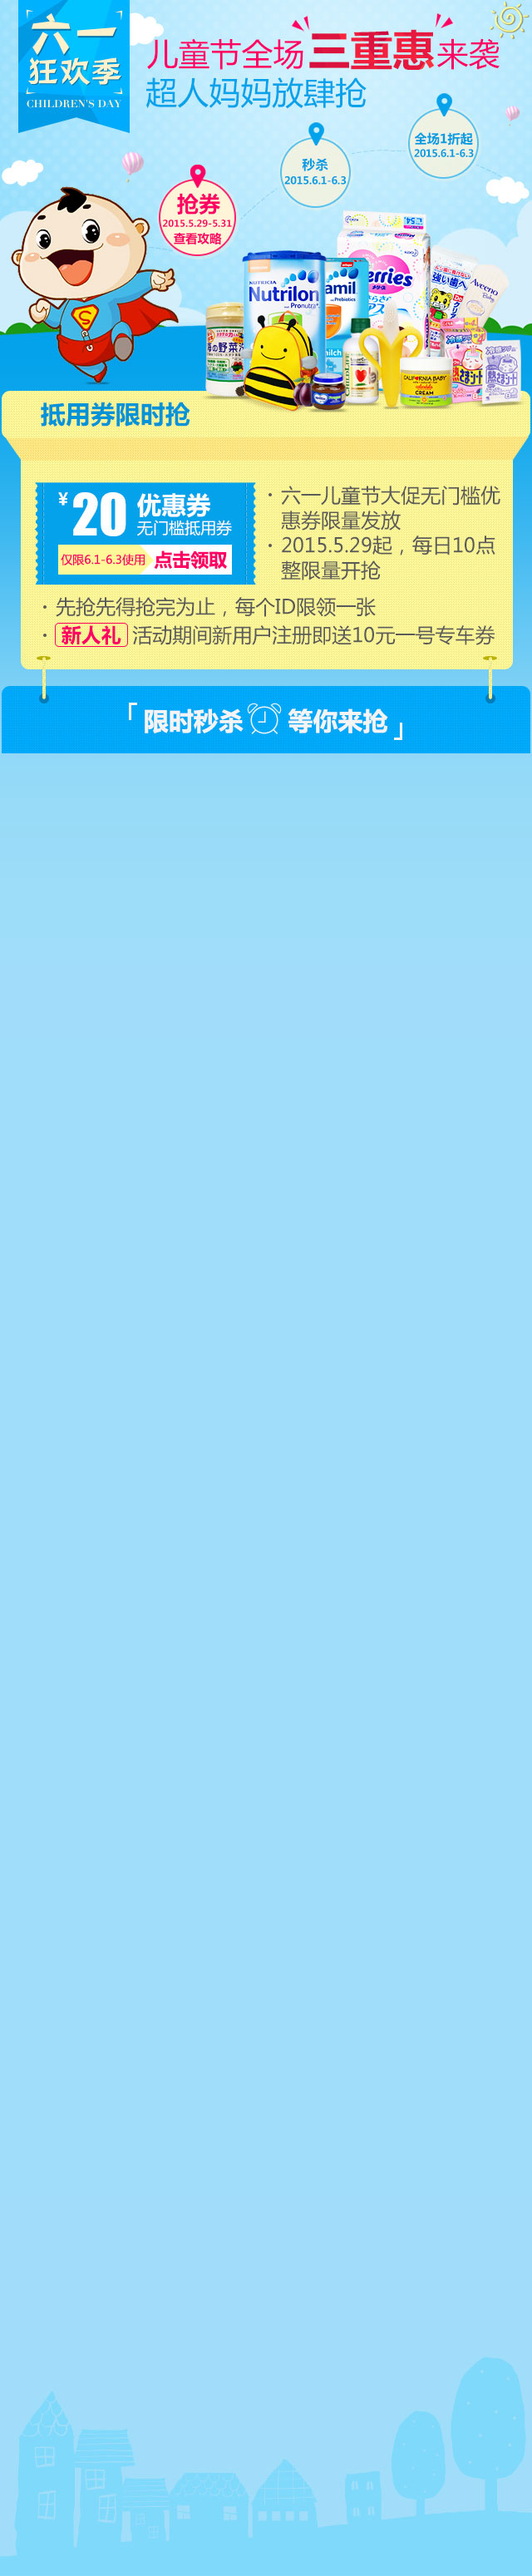
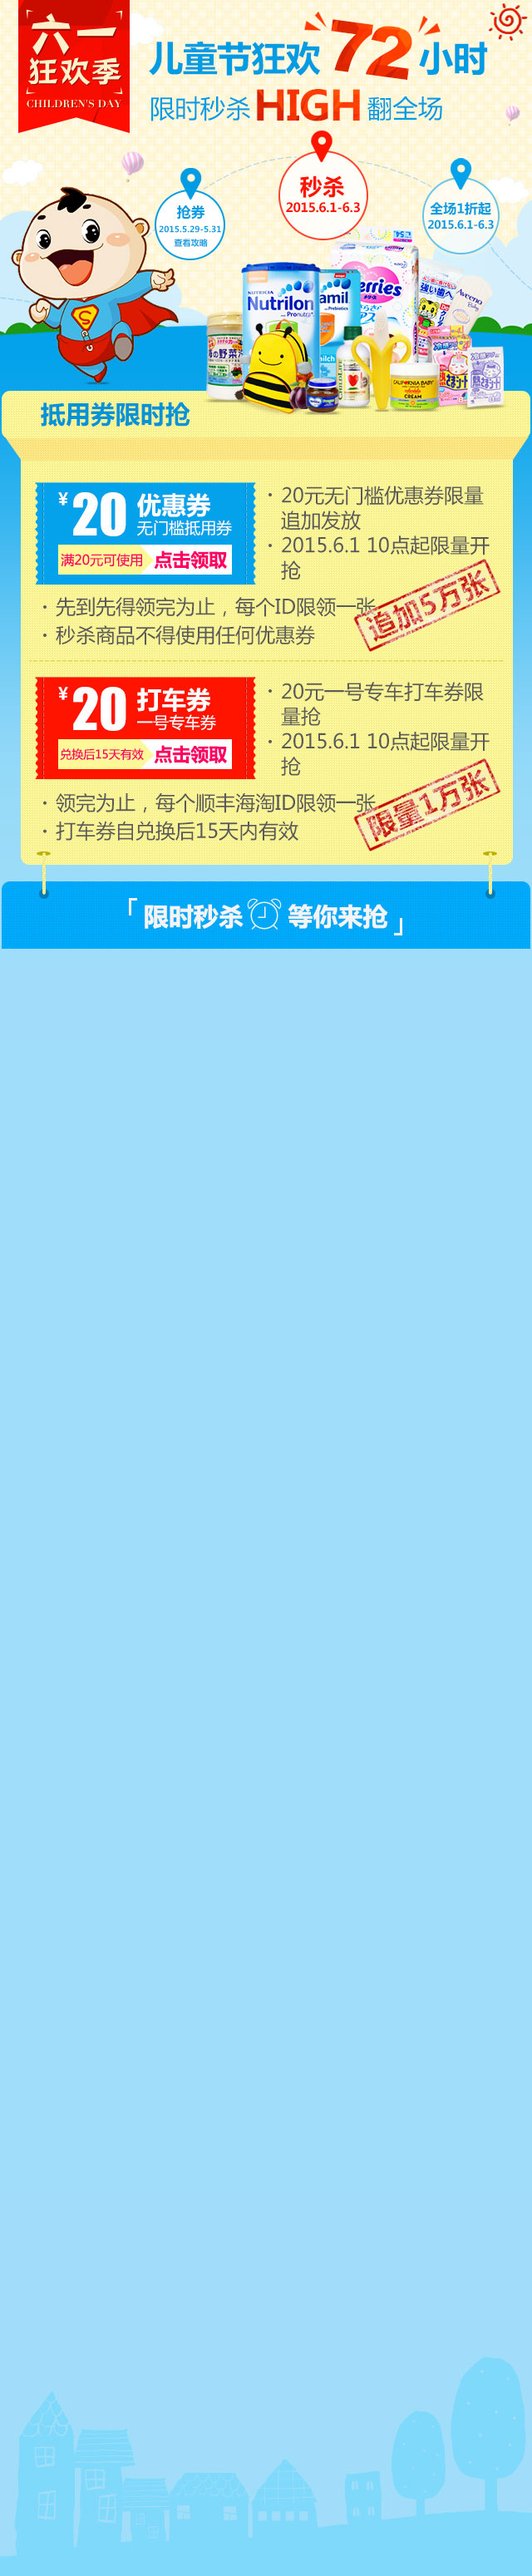
61

Changed region(s): [[0.0, 0.0, 1.0, 0.3719]]

diff --git a/app/static/html/61.html b/app/static/html/61.html
@@ -1,1 +1,1 @@
-<!DOCTYPE html PUBLIC "-//W3C//DTD XHTML 1.0 Transitional//EN" "http://www.w3.org/TR/xhtml1/DTD/xhtml1-transitional.dtd"><html xmlns="http://www.w3.org/1999/xhtml"><head><meta http-equiv="Content-Type" content="text/html; charset=utf-8" /><meta name="viewport" content="width=device-width, initial-scale=1, maximum-scale=1, user-scalable=no"><title>确定订单</title><link href="../css/common.css" rel="stylesheet" type="text/css" /><link href="../css/61.css" rel="stylesheet" type="text/css" /></head><body><div class="pb"><div class="children-day"><div class="pm"><a class="a1" href="">抢券</a><a class="a2" href="">领取优惠券</a><div class="icon-soldout">已抢光</div><div class="m-dialog"><div class="mb"><a class="close" href="">X</a><h2>预热期：</h2><ul><li>1.抢！20元六一大促无门槛优惠券 </li><li>12.看！9.9元起的秒杀价，锁定目标，等待开抢</li><li>13.新人礼！新用户注册即送10元一号专车打车券</li></ul><h2>大促期：</h2><ul><li>11.20元无门槛优惠券全场放肆用（秒杀商品及小于等于20元商品无法使用此优惠券）</li><li>12.全场1折起 每日准点两场秒杀9.9元起  3.20元一号专车打车券限量抢</li></ul><h2>温馨提示</h2><ul><li>1活动预热时间：2015年5月29日10:00- 2015年5月31日23:59</li><li>1六一儿童节大促时间：2015年6月1日10:00- 2015年6月3日23:59</li></ul><h2>优惠券规则：</h2><ul><li>11.活动预热期间每日10点整准时限量发放20元现金抵用券20000张，先抢先得抢完为止，每个ID限领一张；</li><li>12.优惠券使用有效期限：2015.6.1 10:00-2015.6.3 23:59</li><li>13.此券六一狂欢季无门槛全场通用，秒杀商品及小于等于20元商品无法使用此优惠券</li> </ul><h2>20元无门槛优惠券</li><h2>10元一号专车打车券</h2><ul><li>11.在5月29日00:00-5月31日23:59期间内，所有新注册用户将得到10元一号专车打车券一张；</li><li>12.10元打车券将于6月1日10:00 统一短信发放告知，用户自行前往1号专车平台兑换优惠码；</li><li>13.优惠码兑换有限期为：6月1日10:00-6月30日23:59（逾期优惠券兑换码将失效）；</li><li>14.打车券使用期限为自兑换后15天内有效。<li>15. 10元一号专车打车券限量发放20000张，先注册先得，只限新注册用户，每个顺丰海淘账户ID限领一张；</li></ul><h2>秒杀商品规则：</h2><ul><li>六一大促活动期间，每个ID账户同一个秒杀商品只限购买一次，秒杀商品不得使用任何优惠券</li></ul></div></div><div class="tab2"><ul class="tab2-h"><li class="active"><a href="">6月1日</a></li><li><a href="">6月2日</a></li><li><a href="">6月3日</a></li></ul><div class="tab2-b active"><li><a href=""><img src="../img/61/1.jpg"></a></li><li><a href=""><img src="../img/61/3.jpg"></a><div class="mask"></div><span>即将开始<br />10点开枪</span></li><li><a href=""><img src="../img/61/4.jpg"></a><div class="mask"></div><span>已抢光</span></li><li><a href=""><img src="../img/61/4.jpg"></a></li><li><a href=""><img src="../img/61/5.jpg"></a></li><li><a href=""><img src="../img/61/6.jpg"></a></li><li><a href=""><img src="../img/61/7.jpg"></a></li><li><a href=""><img src="../img/61/8.jpg"></a></li></div><div class="tab2-b"><li><a href=""><img src="../img/61/5.jpg"></a></li><li><a href=""><img src="../img/61/6.jpg"></a></li><li><a href=""><img src="../img/61/7.jpg"></a></li><li><a href=""><img src="../img/61/8.jpg"></a></li><li><a href=""><img src="../img/61/1.jpg"></a></li><li><a href=""><img src="../img/61/2.jpg"></a></li><li><a href=""><img src="../img/61/3.jpg"></a></li><li><a href=""><img src="../img/61/4.jpg"></a></li></div><div class="tab2-b"><li><a href=""><img src="../img/61/4.jpg"></a></li><li><a href=""><img src="../img/61/5.jpg"></a></li><li><a href=""><img src="../img/61/6.jpg"></a></li><li><a href=""><img src="../img/61/1.jpg"></a></li><li><a href=""><img src="../img/61/2.jpg"></a></li><li><a href=""><img src="../img/61/3.jpg"></a></li><li><a href=""><img src="../img/61/7.jpg"></a></li><li><a href=""><img src="../img/61/8.jpg"></a></li></div></div></div></div></div><!--尾部--><!--尾部--><script src="../js/zepto.min.js"></script><script src="../js/61.js"></script></body><script type="text/javascript">var cnzz_protocol = (("https:" == document.location.protocol) ? " https://" : " http://");document.write(unescape("%3Cscript src='" + cnzz_protocol + "v1.cnzz.com/z_stat.php%3Fid%3D1253511102%26show%3Dpic1' type='text/javascript'%3E%3C/script%3E"));</script></html>
+<!DOCTYPE html PUBLIC "-//W3C//DTD XHTML 1.0 Transitional//EN" "http://www.w3.org/TR/xhtml1/DTD/xhtml1-transitional.dtd"><html xmlns="http://www.w3.org/1999/xhtml"><head><meta http-equiv="Content-Type" content="text/html; charset=utf-8" /><meta name="viewport" content="width=device-width, initial-scale=1, maximum-scale=1, user-scalable=no"><title>确定订单</title><link href="../css/common.css" rel="stylesheet" type="text/css" /><link href="../css/61.css" rel="stylesheet" type="text/css" /></head><body><div class="pb"><div class="children-day"><div class="pm"><a class="a1" href="">抢券</a><a class="a2" href="">领取优惠券</a><a class="a3" href="">领取打车券</a><div class="icon-soldout">已抢光</div><div class="icon-soldout icon-soldout2">已抢光</div><div class="m-dialog"><div class="mb"><a class="close" href="">X</a><h2>预热期：</h2><ul><li>1.抢！20元六一大促无门槛优惠券 </li><li>12.看！9.9元起的秒杀价，锁定目标，等待开抢</li><li>13.新人礼！新用户注册即送10元一号专车打车券</li></ul><h2>大促期：</h2><ul><li>11.20元无门槛优惠券全场放肆用（秒杀商品及小于等于20元商品无法使用此优惠券）</li><li>12.全场1折起 每日准点两场秒杀9.9元起  3.20元一号专车打车券限量抢</li></ul><h2>温馨提示</h2><ul><li>1活动预热时间：2015年5月29日10:00- 2015年5月31日23:59</li><li>1六一儿童节大促时间：2015年6月1日10:00- 2015年6月3日23:59</li></ul><h2>优惠券规则：</h2><ul><li>11.活动预热期间每日10点整准时限量发放20元现金抵用券20000张，先抢先得抢完为止，每个ID限领一张；</li><li>12.优惠券使用有效期限：2015.6.1 10:00-2015.6.3 23:59</li><li>13.此券六一狂欢季无门槛全场通用，秒杀商品及小于等于20元商品无法使用此优惠券</li> </ul><h2>20元无门槛优惠券</li><h2>10元一号专车打车券</h2><ul><li>11.在5月29日00:00-5月31日23:59期间内，所有新注册用户将得到10元一号专车打车券一张；</li><li>12.10元打车券将于6月1日10:00 统一短信发放告知，用户自行前往1号专车平台兑换优惠码；</li><li>13.优惠码兑换有限期为：6月1日10:00-6月30日23:59（逾期优惠券兑换码将失效）；</li><li>14.打车券使用期限为自兑换后15天内有效。<li>15. 10元一号专车打车券限量发放20000张，先注册先得，只限新注册用户，每个顺丰海淘账户ID限领一张；</li></ul><h2>秒杀商品规则：</h2><ul><li>六一大促活动期间，每个ID账户同一个秒杀商品只限购买一次，秒杀商品不得使用任何优惠券</li></ul></div></div><div class="tab2"><ul class="tab2-h"><li class="active"><a href="">6月1日</a></li><li><a href="">6月2日</a></li><li><a href="">6月3日</a></li></ul><div class="tab2-b active"><li><a href=""><img src="../img/61/1.jpg"></a><div class="tab-icon">限量<br />100份</div><p>秒杀价已结束<br />活动价仍继续</p></li><li><a href=""><img src="../img/61/3.jpg"></a><div class="mask"></div><span>即将开始<br />10点开枪</span></li><li><a href=""><img src="../img/61/4.jpg"></a><div class="mask"></div><span>已抢光</span></li><li><a href=""><img src="../img/61/4.jpg"></a></li><li><a href=""><img src="../img/61/5.jpg"></a></li><li><a href=""><img src="../img/61/6.jpg"></a></li><li><a href=""><img src="../img/61/7.jpg"></a></li><li><a href=""><img src="../img/61/8.jpg"></a></li></div><div class="tab2-b"><li><a href=""><img src="../img/61/5.jpg"></a></li><li><a href=""><img src="../img/61/6.jpg"></a></li><li><a href=""><img src="../img/61/7.jpg"></a></li><li><a href=""><img src="../img/61/8.jpg"></a></li><li><a href=""><img src="../img/61/1.jpg"></a></li><li><a href=""><img src="../img/61/2.jpg"></a></li><li><a href=""><img src="../img/61/3.jpg"></a></li><li><a href=""><img src="../img/61/4.jpg"></a></li></div><div class="tab2-b"><li><a href=""><img src="../img/61/4.jpg"></a></li><li><a href=""><img src="../img/61/5.jpg"></a></li><li><a href=""><img src="../img/61/6.jpg"></a></li><li><a href=""><img src="../img/61/1.jpg"></a></li><li><a href=""><img src="../img/61/2.jpg"></a></li><li><a href=""><img src="../img/61/3.jpg"></a></li><li><a href=""><img src="../img/61/7.jpg"></a></li><li><a href=""><img src="../img/61/8.jpg"></a></li></div></div></div></div></div><!--尾部--><!--尾部--><script src="../js/zepto.min.js"></script><script src="../js/61.js"></script></body><script type="text/javascript">var cnzz_protocol = (("https:" == document.location.protocol) ? " https://" : " http://");document.write(unescape("%3Cscript src='" + cnzz_protocol + "v1.cnzz.com/z_stat.php%3Fid%3D1253511102%26show%3Dpic1' type='text/javascript'%3E%3C/script%3E"));</script></html>

diff --git a/app/static/css/61.css b/app/static/css/61.css
@@ -1,1 +1,1 @@
-body{max-width:320px}.children-day{background:url(../img/61/bg.jpg) no-repeat center top;-webkit-background-size:320px 320px;background-size:320px}.children-day .pm{padding-top:453px;height:1548px;-webkit-box-sizing:border-box;-moz-box-sizing:border-box;box-sizing:border-box;position:relative}.children-day .a1{width:47px;height:47px;position:absolute;left:95px;top:108px;text-indent:-999em}.children-day .a2{width:133px;height:61px;position:absolute;left:15px;top:291px;text-indent:-999em}.m-dialog{position:absolute;top:10%;left:50%;display:none;width:90%}.m-dialog .mb{position:relative;left:-50%;margin-top:-50%;background:#fff;background:rgba(255,255,255,0.85);border:2px solid #ccc;padding:10px 26px;-webkit-border-radius:4px;border-radius:4px}.m-dialog h2， .m-dialog h3{color:#ff0064;margin:10px 0}.m-dialog li{line-height:1.5}.m-dialog .close{position:absolute;right:10px;top:10px;font-size:18px;color:#ccc}.tab2{background:#fff}.tab2-h{padding-top:37px;border-bottom:1px solid #b6b6b6;height:60px;margin-bottom:21px}.tab2-h li{width:33%;text-align:center;display:inline-block;background:url(../img/61/tab-h.png) no-repeat center bottom;-webkit-background-size:17px 17px;background-size:17px;padding-bottom:20px}.tab2-h li.active{background:url(../img/61/tab-h-active.png) no-repeat center bottom;-webkit-background-size:17px 17px;background-size:17px}.tab2-h .active a{color:#009ae4}.tab2-h a{color:#b6b6b6}.tab2-b{padding-left:6px;display:none}.tab2-b.active{display:block}.tab2-b li{display:inline-block;margin-left:10px;margin-bottom:10px;width:139px;position:relative}.tab2-b li img{width:100%}.tab2-b{padding-bottom:28px}.icon-soldout{background:url(../img/61/icon1.png) no-repeat;-webkit-background-size:87px 87px;background-size:87px;width:87px;height:87px;position:absolute;left:74px;top:277px;text-indent:-999em}.mask{position:absolute;display:block;-webkit-box-sizing:border-box;-moz-box-sizing:border-box;box-sizing:border-box}.tab2-b li span{font-size:18px;line-height:20px;text-align:center;color:#fff;position:absolute;left:0;top:61px;width:100%;z-index:999}
+body{max-width:320px}.children-day{background:url(../img/61/bg.jpg) no-repeat center top;-webkit-background-size:320px 320px;background-size:320px}.children-day .pm{padding-top:570px;height:1548px;-webkit-box-sizing:border-box;-moz-box-sizing:border-box;box-sizing:border-box;position:relative}.children-day .a1{width:47px;height:47px;position:absolute;left:95px;top:108px;text-indent:-999em}.children-day .a2{width:133px;height:61px;position:absolute;left:15px;top:291px;text-indent:-999em}.children-day .a3{width:133px;height:61px;position:absolute;left:15px;top:407px;text-indent:-999em}.m-dialog{position:absolute;top:10%;left:50%;display:none;width:90%}.m-dialog .mb{position:relative;left:-50%;margin-top:-50%;background:#fff;background:rgba(255,255,255,0.85);border:2px solid #ccc;padding:10px 26px;-webkit-border-radius:4px;border-radius:4px}.m-dialog h2， .m-dialog h3{color:#ff0064;margin:10px 0}.m-dialog li{line-height:1.5}.m-dialog .close{position:absolute;right:10px;top:10px;font-size:18px;color:#ccc}.tab2{background:#fff}.tab2-h{padding-top:37px;border-bottom:1px solid #b6b6b6;height:60px;margin-bottom:21px}.tab2-h li{width:33%;text-align:center;display:inline-block;background:url(../img/61/tab-h.png) no-repeat center bottom;-webkit-background-size:17px 17px;background-size:17px;padding-bottom:20px}.tab2-h li.active{background:url(../img/61/tab-h-active.png) no-repeat center bottom;-webkit-background-size:17px 17px;background-size:17px}.tab2-h .active a{color:#009ae4}.tab2-h a{color:#b6b6b6}.tab2-b{padding-left:6px;display:none}.tab2-b.active{display:block}.tab2-b li{display:inline-block;margin-left:10px;margin-bottom:10px;width:139px;position:relative}.tab2-b li img{width:100%}.tab2-b{padding-bottom:28px}.icon-soldout{background:url(../img/61/icon1.png) no-repeat;-webkit-background-size:87px 87px;background-size:87px;width:87px;height:87px;position:absolute;left:74px;top:277px;text-indent:-999em}.icon-soldout2{top:394px}.mask{position:absolute;display:block;-webkit-box-sizing:border-box;-moz-box-sizing:border-box;box-sizing:border-box}.tab2-b li span{font-size:18px;line-height:20px;text-align:center;color:#fff;position:absolute;left:0;top:61px;width:100%;z-index:999}.tab2-b p{background:#ff73aa;background:rgba(255,0,100,0.55);height:34px;padding-top:4px;line-height:13px;color:#fff;text-align:center;position:absolute;top:114px;left:0;width:100%}.tab-icon{width:40px;height:40px;line-height:1.2;padding-top:6px;color:#fff;text-align:center;background:#ff0064;position:absolute;left:0;top:0}

diff --git a/app/static/scss/61.scss b/app/static/scss/61.scss
@@ -10,7 +10,7 @@ body{
 	
 }
 .children-day .pm{
-	padding-top: 453px;
+	padding-top: 570px;
 	height: 1548px;
 	box-sizing:border-box;
 	position: relative;
@@ -29,6 +29,14 @@ body{
 	position: absolute;
 	left: 15px;
 	top: 291px;
+	text-indent: -999em;
+}
+.children-day .a3{
+	width: 133px;
+	height: 61px;
+	position: absolute;
+	left: 15px;
+	top: 407px;
 	text-indent: -999em;
 }
 .m-dialog{
@@ -122,6 +130,9 @@ body{
 	top: 277px;
 	text-indent: -999em;
 }
+.icon-soldout2{
+	top: 394px;
+}
 .mask{
 	position: absolute;;
 	display: block;
@@ -137,4 +148,29 @@ body{
 	top: 61px;
 	width: 100%;
 	z-index: 999;
+}
+.tab2-b p{
+	background: #ff73aa;
+	background: rgba(255,0,100,0.55);
+	height: 34px;
+	padding-top: 4px;
+	line-height: 13px;
+	color: #fff;
+	text-align: center;
+	position: absolute;
+	top: 114px;
+	left: 0;
+	width: 100%;
+}
+.tab-icon{
+	width: 40px;
+	height: 40px;
+	line-height: 1.2;
+	padding-top: 6px;
+	color: #fff;
+	text-align: center;
+	background: #ff0064;
+	position: absolute;
+	left: 0;
+	top: 0;
 }
